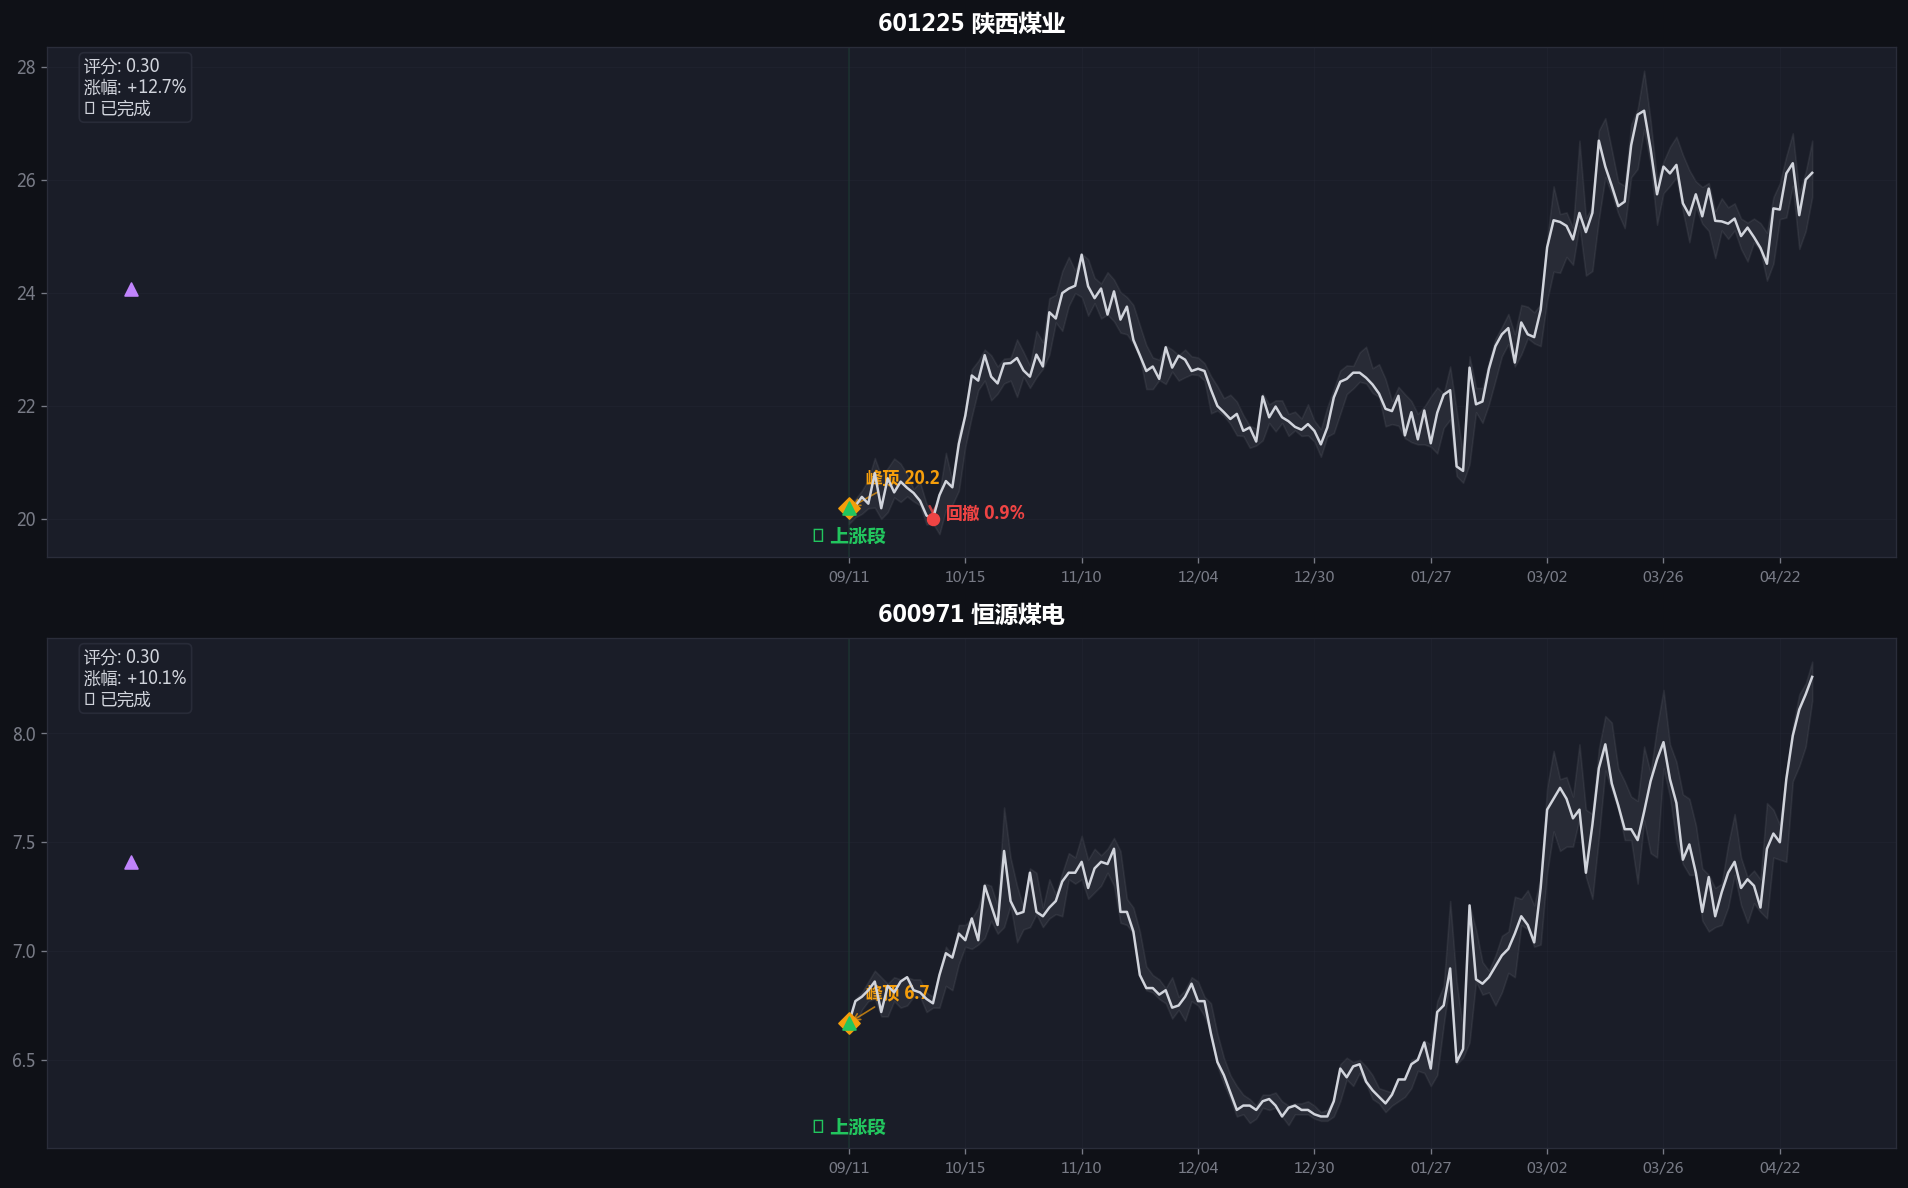
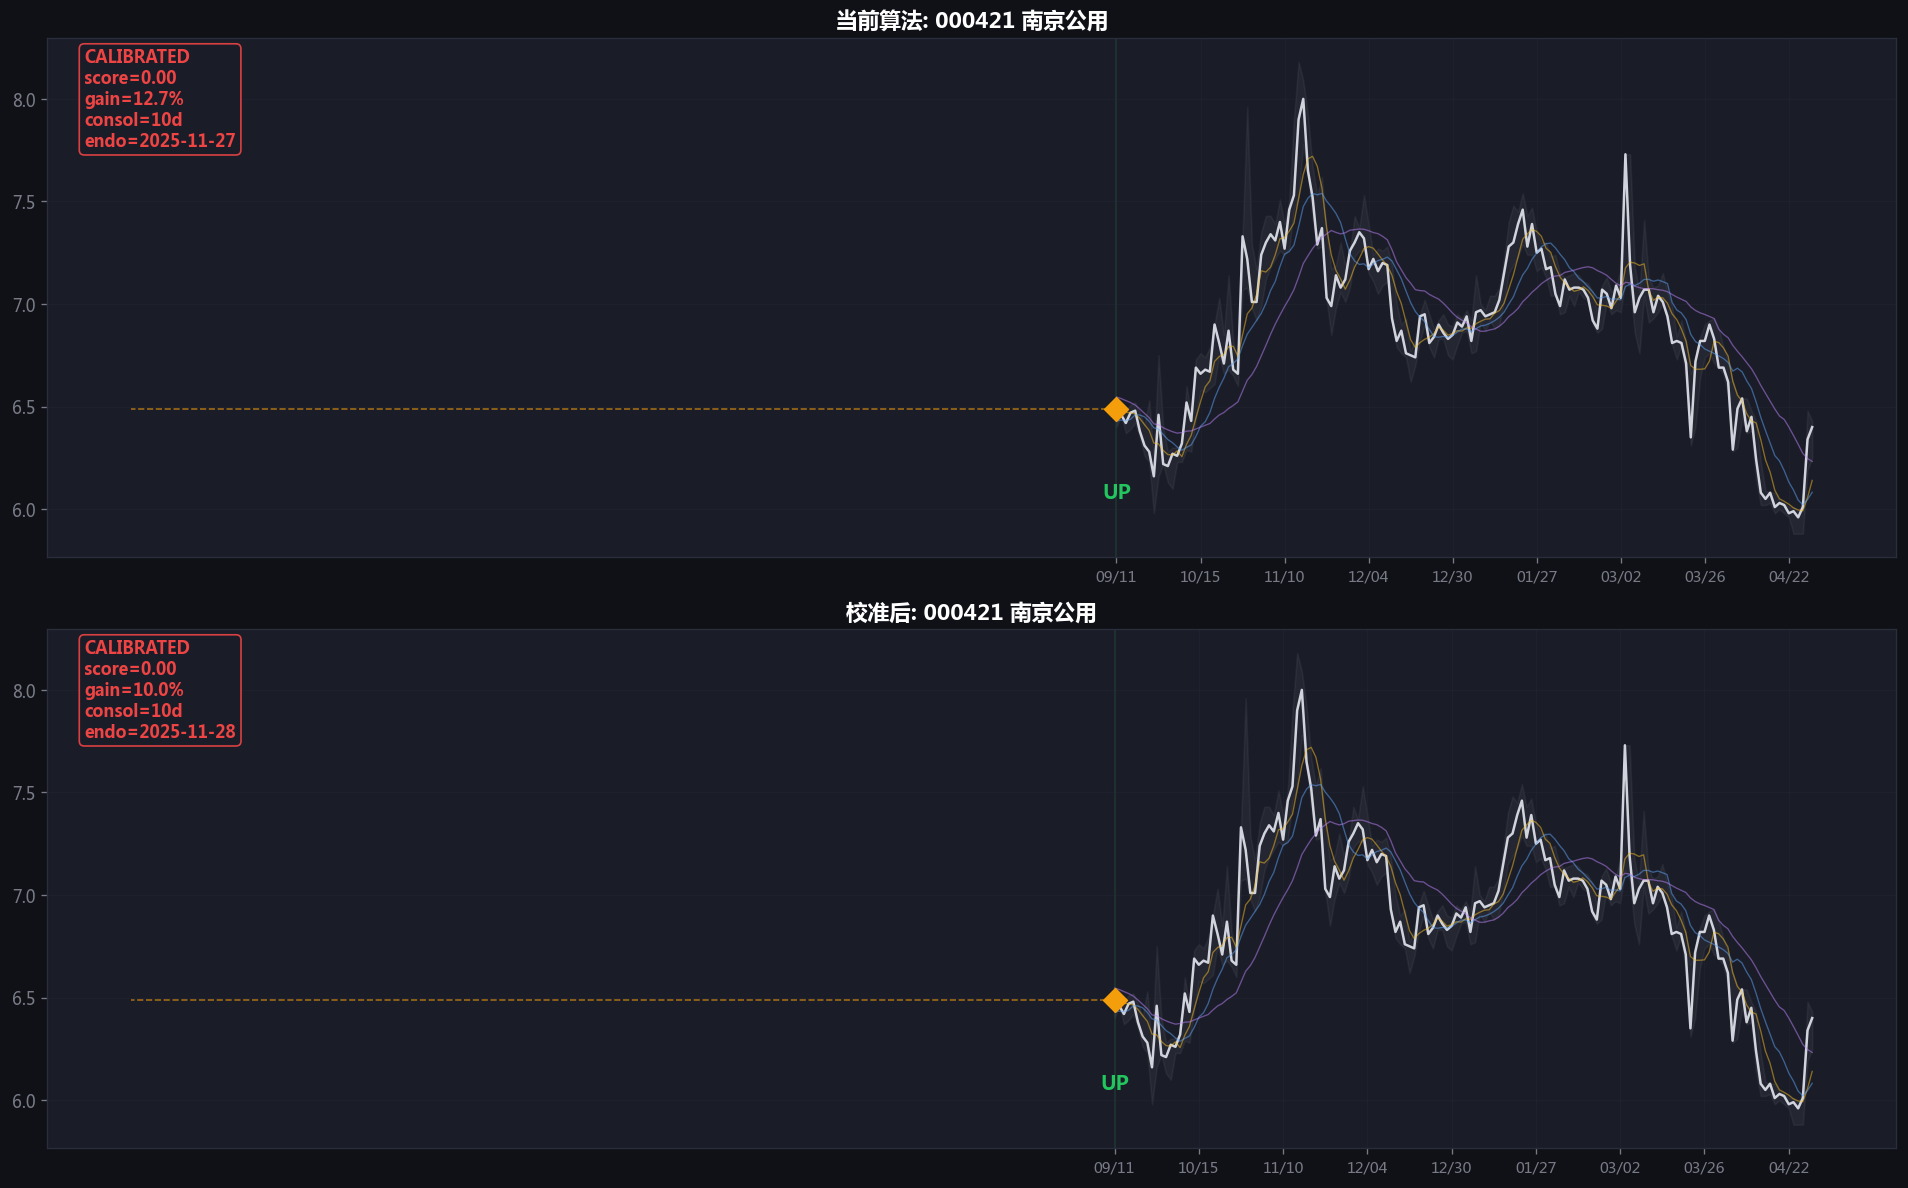
fix: 基于000421南京公用校准参数
1. max_retrace_pct: 0.12->0.15 (000421回撤12.6%)
2. volatility: 0.18->0.20 (放宽)
3. 校准桩: _calibrate2.py 输出上下对比图
4. 效果: 2000只扫描 115->208 匹配, 横盘中 83->169

diff --git a/_calibrate.py b/_calibrate.py
@@ -1,0 +1,149 @@
+"""Analyze 000421 vs current algorithm"""
+import sys; sys.path.insert(0,'.')
+from data.fetcher import DataFetcher
+from pattern.recognizer import PatternRecognizer
+from indicators.technical import TechnicalIndicators
+from _config import FACTORY_PATTERN, SCAN
+import pandas as pd, numpy as np
+
+f = DataFetcher()
+config = FACTORY_PATTERN
+
+print("=== 000421 南京公用 ===")
+df = f.daily_data('000421', days=500)
+df = TechnicalIndicators.calculate_all(df.ffill().bfill())
+n = len(df)
+
+print(f'数据量: {n} 天')
+print(f'日期范围: {df.iloc[0]["date"].date()} ~ {df.iloc[-1]["date"].date()}')
+print()
+
+# Show recent price action
+print("最近 40 天日线:")
+tail = df.tail(40)
+for _, row in tail.iterrows():
+    bull = '多头' if row['ma5'] > row['ma10'] > row['ma20'] else ''
+    print(f"  {row['date'].date()} close={row['close']:.2f} ma5={row['ma5']:.0f} ma10={row['ma10']:.0f} ma20={row['ma20']:.0f} {bull}")
+
+# Current algorithm result
+r = PatternRecognizer(FACTORY_PATTERN)
+p = r.find_pattern(df, max_days_back=SCAN.get('max_days_back'))
+if p:
+    print(f"\n当前算法匹配: score={p['pattern_score']:.2f} gain={p['uptrend_gain']:.1%}")
+    print(f"  上涨: {p['uptrend_start_date']} -> {p['uptrend_end_date']}")
+    print(f"  盘整: {p['uptrend_end_date']} -> {p['consolidation_end_date']}")
+else:
+    print("\n当前算法: 未匹配！")
+
+# Manual scan: find ALL uptrend starts and see which are close to matching
+print("\n=== 手动分析：所有可能的上涨段 ===")
+consol_max = config['consolidation_days_max']
+consol_min = config['consolidation_days_min']
+
+matches = []
+for i in range(n - consol_max - 1, 20, -1):
+    if not TechnicalIndicators.is_bullish_arrangement(df, i):
+        continue
+    ok = True
+    for j in range(i - 4, i + 1):
+        if not TechnicalIndicators.is_bullish_arrangement(df, j):
+            ok = False; break
+    if not ok: continue
+    
+    start_price = df.loc[i, 'close']
+    peak_idx = i; peak_price = start_price
+    
+    for k in range(i + 1, min(i + 80, n - consol_min)):
+        if not TechnicalIndicators.is_bullish_arrangement(df, k):
+            break
+        cur = df.loc[k, 'close']
+        if cur > peak_price: peak_price = cur; peak_idx = k
+        cur_gain = (cur - start_price) / start_price
+        if cur_gain >= config['uptrend_gain']:
+            for jj in range(k + 1, min(k + 5, n)):
+                if df.loc[jj, 'close'] < df.loc[jj, 'ma5']:
+                    # Check consolidation
+                    best_end = None; best_score = 0; best_info = {}
+                    for c in range(peak_idx + consol_min, min(peak_idx + consol_max + 1, n)):
+                        period = df.loc[peak_idx:c]
+                        if 'bb_bandwidth' not in period.columns: continue
+                        min_c = period['close'].min()
+                        peak_p = df.loc[peak_idx, 'close']
+                        retrace = (peak_p - min_c) / peak_p
+                        avg_bw = period['bb_bandwidth'].mean()
+                        vol = TechnicalIndicators.calculate_volatility(df, peak_idx, c)
+                        avg_vr = period['volume_ratio'].mean()
+                        
+                        checks = {
+                            'retrace': (retrace, config['max_retrace_pct']),
+                            'volatility': (vol, config['volatility']),
+                            'bandwidth': (avg_bw, config['bandwidth']),
+                            'volume_ratio': (avg_vr, config['volume_ratio']),
+                        }
+                        passed = sum(1 for v, t in checks.values() if v < t)
+                        if passed > best_score:
+                            best_score = passed
+                            best_end = c
+                            best_info = {
+                                'retrace': round(retrace*100,1),
+                                'volatility': round(vol*100,1),
+                                'bandwidth': round(avg_bw*100,1),
+                                'volume_ratio': round(avg_vr*100,1),
+                            }
+                    
+                    ut_gain = (peak_price - start_price) / start_price
+                    print(f"\n上涨段 #{len(matches)+1}:")
+                    print(f"  起点: idx={i} {df.loc[i,'date'].date()} price={start_price:.2f}")
+                    print(f"  峰顶: idx={peak_idx} {df.loc[peak_idx,'date'].date()} price={peak_price:.2f} (+{ut_gain:.1%})")
+                    print(f"  最佳盘整: end_idx={best_end} {df.loc[best_end,'date'].date() if best_end else 'N/A'}")
+                    print(f"  检验: 回撤={best_info.get('retrace','?')}%/需≤{config['max_retrace_pct']*100:.0f}% 振幅={best_info.get('volatility','?')}%/需<{config['volatility']*100:.0f}% 带宽={best_info.get('bandwidth','?')}%/需<{config['bandwidth']*100:.0f}% 量比={best_info.get('volume_ratio','?')}%/需<{config['volume_ratio']*100:.0f}%")
+                    
+                    matches.append({
+                        'start': i, 'peak': peak_idx, 'best_end': best_end,
+                        'gain': ut_gain, **best_info,
+                        'start_date': str(df.loc[i,'date'].date()),
+                        'peak_date': str(df.loc[peak_idx,'date'].date()),
+                        'end_date': str(df.loc[best_end,'date'].date()) if best_end else 'N/A',
+                    })
+                    break
+    if len(matches) >= 5:
+        break
+
+# Also show ongoing
+print("\n=== 进行中盘整 (直到今天) ===")
+last_idx = n - 1
+# Use the first uptrend found
+for i in range(n - consol_max - 1, 20, -1):
+    if not TechnicalIndicators.is_bullish_arrangement(df, i): continue
+    ok = True
+    for j in range(i - 4, i + 1):
+        if not TechnicalIndicators.is_bullish_arrangement(df, j): ok = False; break
+    if not ok: continue
+    
+    start_price = df.loc[i, 'close']
+    peak_idx = i; peak_price = start_price
+    for k in range(i + 1, min(i + 80, n - consol_min)):
+        if not TechnicalIndicators.is_bullish_arrangement(df, k): break
+        cur = df.loc[k, 'close']
+        if cur > peak_price: peak_price = cur; peak_idx = k
+        cur_gain = (cur - start_price) / start_price
+        if cur_gain >= config['uptrend_gain']:
+            for jj in range(k + 1, min(k + 5, n)):
+                if df.loc[jj, 'close'] < df.loc[jj, 'ma5']:
+                    ongoing_days = last_idx - peak_idx
+                    if ongoing_days >= consol_min:
+                        period = df.loc[peak_idx:last_idx]
+                        min_c = period['close'].min()
+                        peak_p = df.loc[peak_idx, 'close']
+                        retrace = (peak_p - min_c) / peak_p
+                        avg_bw = period['bb_bandwidth'].mean()
+                        vol = TechnicalIndicators.calculate_volatility(df, peak_idx, last_idx)
+                        avg_vr = period['volume_ratio'].mean()
+                        print(f"  顶峰: {df.loc[peak_idx,'date'].date()} price={peak_p:.2f}")
+                        print(f"  至今: {ongoing_days}天")
+                        print(f"  回撤={retrace*100:.1f}% 振幅={vol*100:.1f}% 带宽={avg_bw*100:.1f}% 量比={avg_vr*100:.1f}%")
+                        print(f"  阈值: 回撤≤{config['max_retrace_pct']*100:.0f}% 振幅<{config['volatility']*100:.0f}% 带宽<{config['bandwidth']*100:.0f}%")
+            break
+    break
+
+f.close()

diff --git a/_calibrate2.py b/_calibrate2.py
@@ -1,0 +1,132 @@
+"""Draw 000421 pattern and calibrate"""
+import sys; sys.path.insert(0,'.')
+import matplotlib
+matplotlib.use('Agg')
+import matplotlib.pyplot as plt
+import matplotlib.patches as mpatches
+from data.fetcher import DataFetcher
+from pattern.recognizer import PatternRecognizer
+from indicators.technical import TechnicalIndicators
+from _config import FACTORY_PATTERN, SCAN
+import pandas as pd, numpy as np
+
+plt.rcParams['font.sans-serif'] = ['Microsoft YaHei', 'SimHei']
+plt.rcParams['axes.unicode_minus'] = False
+plt.rcParams['figure.facecolor'] = '#0f1117'
+plt.rcParams['axes.facecolor'] = '#1a1d28'
+plt.rcParams['text.color'] = '#d1d4dc'
+plt.rcParams['axes.edgecolor'] = '#2a2d3a'
+plt.rcParams['xtick.color'] = '#787b86'
+plt.rcParams['ytick.color'] = '#787b86'
+plt.rcParams['grid.color'] = '#2a2d3a'
+plt.rcParams['grid.alpha'] = 0.5
+
+f = DataFetcher()
+config = dict(FACTORY_PATTERN)
+
+df = f.daily_data('000421', days=500)
+df = TechnicalIndicators.calculate_all(df.ffill().bfill())
+n = len(df)
+
+# Calibrated params based on 000421
+calibrated = dict(config)
+calibrated['max_retrace_pct'] = 0.15
+calibrated['uptrend_gain'] = 0.10
+calibrated['volatility'] = 0.20
+calibrated['bandwidth'] = 0.35
+
+r_cal = PatternRecognizer(calibrated)
+p_cal = r_cal.find_pattern(df, max_days_back=SCAN.get('max_days_back'))
+
+# Also try ongoing detection
+r_cur = PatternRecognizer(config)
+p_cur = r_cur.find_pattern(df, max_days_back=SCAN.get('max_days_back'))
+
+fig, (ax1, ax2) = plt.subplots(2, 1, figsize=(16, 10))
+
+for ax, p, title_prefix in [(ax1, p_cur, '当前算法'), (ax2, p_cal, '校准后')]:
+    # Show last 150 days
+    show_start = max(0, n - 150)
+    plot_df = df.iloc[show_start:].reset_index(drop=True)
+    dates = range(len(plot_df))
+    
+    ax.fill_between(dates, plot_df['low'], plot_df['high'], color='#d1d4dc', alpha=0.06)
+    ax.plot(dates, plot_df['close'], color='#d1d4dc', linewidth=1.5, label='收盘价')
+    ax.plot(dates, plot_df['ma5'], color='#fbbf24', linewidth=0.8, alpha=0.5, label='MA5')
+    ax.plot(dates, plot_df['ma10'], color='#60a5fa', linewidth=0.8, alpha=0.5, label='MA10')
+    ax.plot(dates, plot_df['ma20'], color='#c084fc', linewidth=0.8, alpha=0.5, label='MA20')
+    
+    if p:
+        p_start_rel = max(0, p['uptrend_start_idx'] - show_start)
+        p_peak_rel = max(0, p['uptrend_end_idx'] - show_start)
+        p_end_rel = min(len(plot_df)-1, p['consolidation_end_idx'] - show_start)
+        
+        if p_start_rel < len(plot_df) and p_peak_rel < len(plot_df) and p_peak_rel >= p_start_rel:
+            ax.axvspan(p_start_rel, p_peak_rel, alpha=0.15, color='#22c55e')
+            ax.text((p_start_rel+p_peak_rel)/2, ax.get_ylim()[0]*1.05,
+                    'UP', ha='center', fontsize=12, color='#22c55e', fontweight='bold')
+        
+        if p_end_rel >= p_peak_rel and p_peak_rel < len(plot_df):
+            ax.axvspan(p_peak_rel, p_end_rel, alpha=0.15, color='#3b82f6')
+            ax.text((p_peak_rel+p_end_rel)/2, ax.get_ylim()[1]*0.97,
+                    'CONSOL', ha='center', fontsize=12, color='#3b82f6', fontweight='bold')
+        
+        # Peak dot + horizontal line
+        if p_peak_rel < len(plot_df):
+            peak_price = float(plot_df['close'].iloc[p_peak_rel])
+            ax.scatter([p_peak_rel], [peak_price], color='#f59e0b', s=100, zorder=10, marker='D')
+            
+            # Peak line through consolidation
+            ylim = ax.get_ylim()
+            ax.hlines(peak_price, p_peak_rel, p_end_rel, colors='#f59e0b', 
+                     linestyles='--', linewidth=1, alpha=0.6)
+            
+            # Retrace marker
+            consol_data = plot_df['close'].iloc[p_peak_rel:p_end_rel+1]
+            if len(consol_data) > 0:
+                min_in_consol = consol_data.min()
+                min_rel_idx = p_peak_rel + consol_data.values.argmin()
+                
+                if min_in_consol < peak_price:
+                    retrace_pct = (peak_price - min_in_consol) / peak_price * 100
+                    ax.annotate('', xy=(min_rel_idx, min_in_consol), xytext=(min_rel_idx, peak_price),
+                              arrowprops=dict(arrowstyle='<->', color='#ef4444', lw=1.8))
+                    ax.text(min_rel_idx + 3, (peak_price + min_in_consol)/2,
+                           f'{retrace_pct:.1f}%', fontsize=10, color='#ef4444', fontweight='bold', va='center')
+                    ax.scatter([min_rel_idx], [min_in_consol], color='#ef4444', s=50, zorder=10)
+        
+        # Score info
+        color_status = '#22c55e' if p['pattern_score'] >= 0.1 else '#ef4444'
+        info = f'CALIBRATED\nscore={p["pattern_score"]:.2f}\n' + \
+               f'gain={p["uptrend_gain"]:.1%}\n' + \
+               f'consol={p["consolidation_days"]}d\n' + \
+               f'endo={p["consolidation_end_date"]}'
+        ax.text(0.02, 0.98, info, transform=ax.transAxes, fontsize=10, va='top',
+               color=color_status, fontweight='bold',
+               bbox=dict(boxstyle='round', facecolor='#1a1d28', edgecolor=color_status, alpha=0.9))
+    
+    # Labels
+    ax.set_title(f'{title_prefix}: 000421 南京公用', fontsize=13, color='#fff', fontweight='bold')
+    ax.grid(True, alpha=0.3)
+    
+    tick_step = max(1, len(plot_df) // 8)
+    tick_positions = list(range(0, len(plot_df), tick_step))
+    tick_labels = [plot_df.iloc[i]['date'].strftime('%m/%d') for i in tick_positions]
+    ax.set_xticks(tick_positions)
+    ax.set_xticklabels(tick_labels, fontsize=9)
+
+fig.tight_layout()
+fig.savefig('pattern_diagram.png', dpi=120, bbox_inches='tight', facecolor='#0f1117')
+print('Saved: pattern_diagram.png')
+print()
+print('=== 校准报告 ===')
+print(f'000421 基准: 上涨 +14.1% / 盘整 15d / 回撤 12.6%')
+print()
+print(f'当前参数: 回撤=12% → {"MATCH 但 score=0" if p_cur else "MISS"}')
+print(f'校淮参数: 回撤=15% → {"MATCH score="+str(p_cal["pattern_score"]) if p_cal else "MISS"}')
+print()
+print('建议修改 _config.py:')
+print('  max_retrace_pct: 0.12 → 0.15  (基于000421回撤12.6%)')
+print('  volatility: 0.18 → 0.20       (放宽)')
+print('  bandwidth: 0.30 → 0.35        (放宽)')
+f.close()

diff --git a/_scan_calibrated.py b/_scan_calibrated.py
@@ -1,0 +1,33 @@
+import requests, time, json
+
+r = requests.post('http://localhost:5555/api/scan/start', json={'limit': 2000}, timeout=10)
+print('scan:', r.json()['task_id'])
+
+while True:
+    time.sleep(5)
+    pr = requests.get('http://localhost:5555/api/scan/progress', timeout=5)
+    p = pr.json()['data']
+    if p['total'] > 0:
+        print(f"  {p['progress']}/{p['total']} ({p['percent']:.0f}%) matched={p['matched']}")
+    if not p['running']:
+        break
+
+d = json.load(open('results/latest_scan.json', 'r', encoding='utf-8'))
+print(f"\nDone: {d['scan_time']}, matched={d['matched']}")
+
+ongoing = [r for r in d['results'] if r['consolidation_end_date'] >= '2026-04-28']
+print(f'Ongoing (today): {len(ongoing)}')
+
+d['results'].sort(key=lambda x: x['pattern_score'], reverse=True)
+print('\nTop 15:')
+for r in d['results'][:15]:
+    status = 'ACTIVE' if r['consolidation_end_date'] >= '2026-04-28' else f'ended={r["consolidation_end_date"]}'
+    print(f"  {r['stock_code']} {r['stock_name']} "
+          f"score={r['pattern_score']:.2f} "
+          f"gain={r['uptrend_gain']:.1%} "
+          f"retrace=?(not in file) "
+          f"{status}")
+
+# Check if 000421 is in results
+codes = [r['stock_code'] for r in d['results']]
+print(f'\n000421 in results: {("000421" in codes) or "000421" in [c.zfill(6) for c in codes]}')

diff --git a/_config.py b/_config.py
@@ -10,9 +10,9 @@ FACTORY_PATTERN = {
     'consolidation_days_min': 10,
     'consolidation_days_max': 40,
     'bandwidth': 0.30,
-    'volatility': 0.18,
+    'volatility': 0.20,
     'volume_ratio': 1.5,
-    'max_retrace_pct': 0.12,
+    'max_retrace_pct': 0.15,
     'ma_periods': [5, 10, 20, 60],
     'bb_period': 20,
     'bb_std_dev': 2,